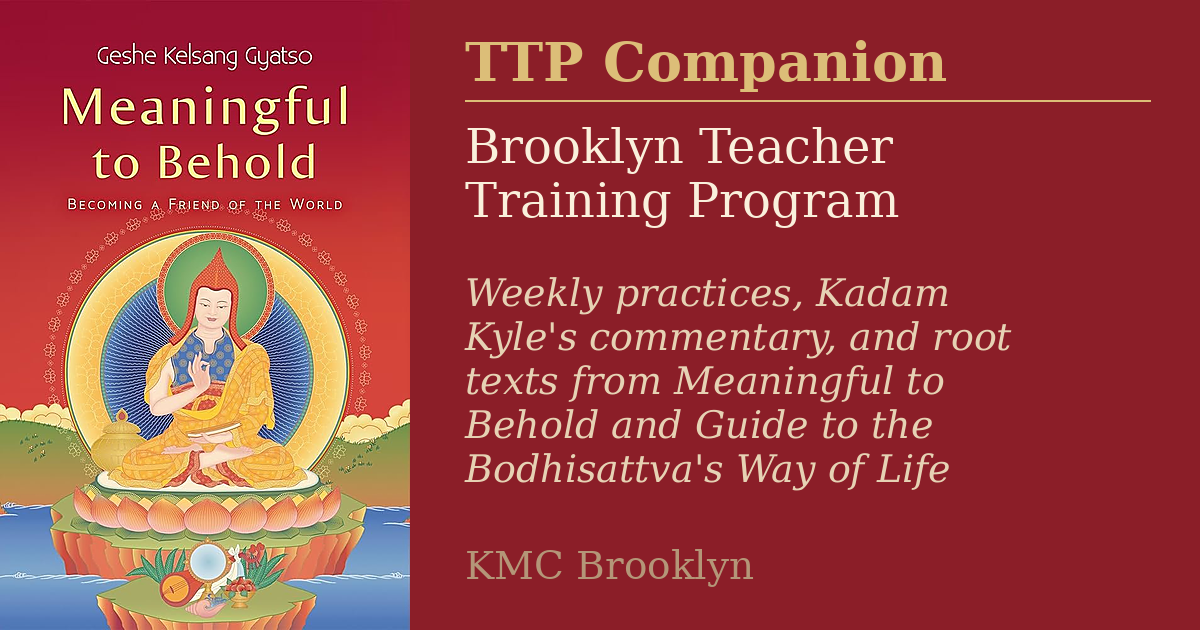
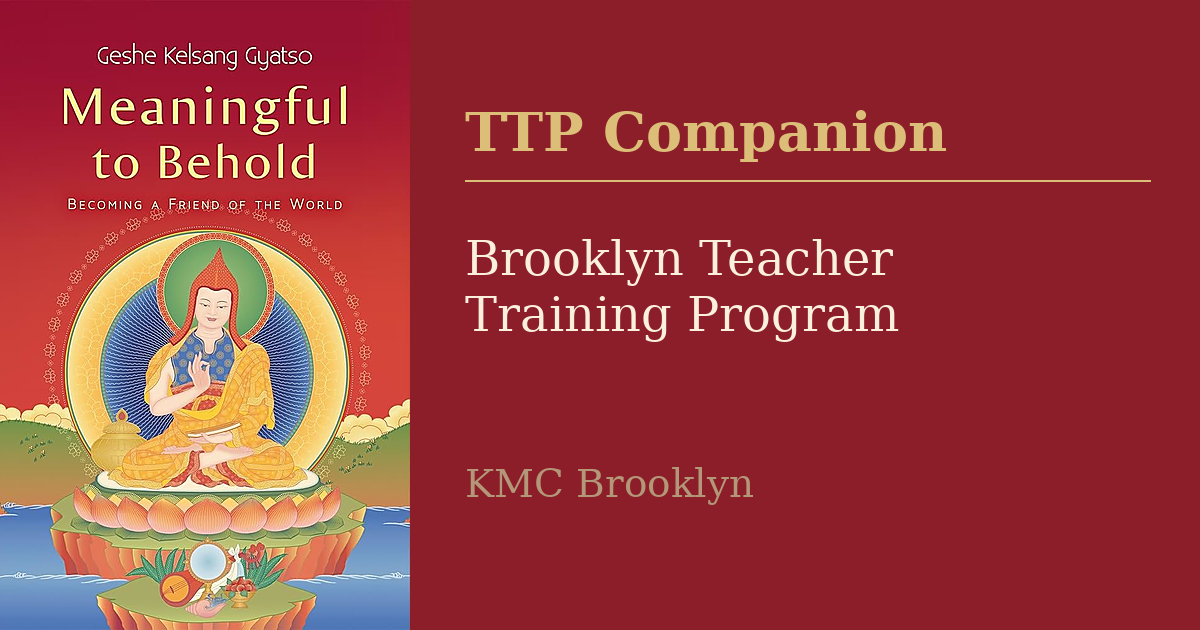
updated OG graphics

Changed region(s): [[0.37, 0.3619, 0.8633, 0.8143], [0.37, 0.0603, 0.9558, 0.3619], [0.37, 0.8746, 0.6167, 0.9349]]

diff --git a/index.html b/index.html
@@ -3,9 +3,9 @@
 <head>
     <meta charset="UTF-8">
     <meta name="viewport" content="width=device-width, initial-scale=1.0">
-    <meta name="description" content="Weekly practices, Kadam Kyle's commentary, and root texts from Meaningful to Behold and Guide to the Bodhisattva's Way of Life.">
+    <meta name="description" content="Weekly practices, Kadam Kyle's commentary, and source texts.">
     <meta property="og:title" content="TTP Companion App">
-    <meta property="og:description" content="Weekly practices, Kadam Kyle's commentary, and root texts from Meaningful to Behold and Guide to the Bodhisattva's Way of Life.">
+    <meta property="og:description" content="Weekly practices, Kadam Kyle's commentary, and source texts.">
     <meta property="og:type" content="website">
     <meta property="og:url" content="https://brooklynttp.github.io/ttp-companion/">
     <meta property="og:image" content="https://brooklynttp.github.io/ttp-companion/og-image.png">
